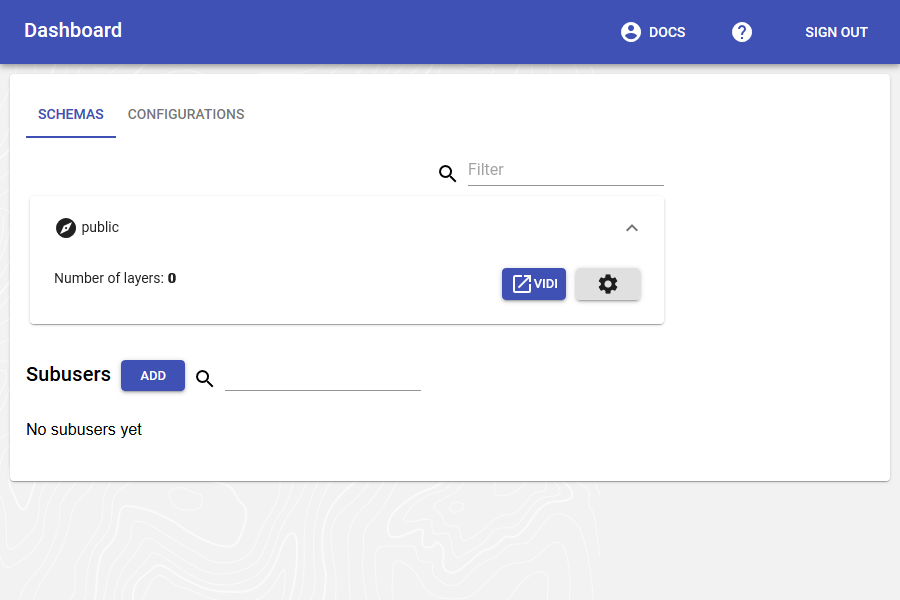
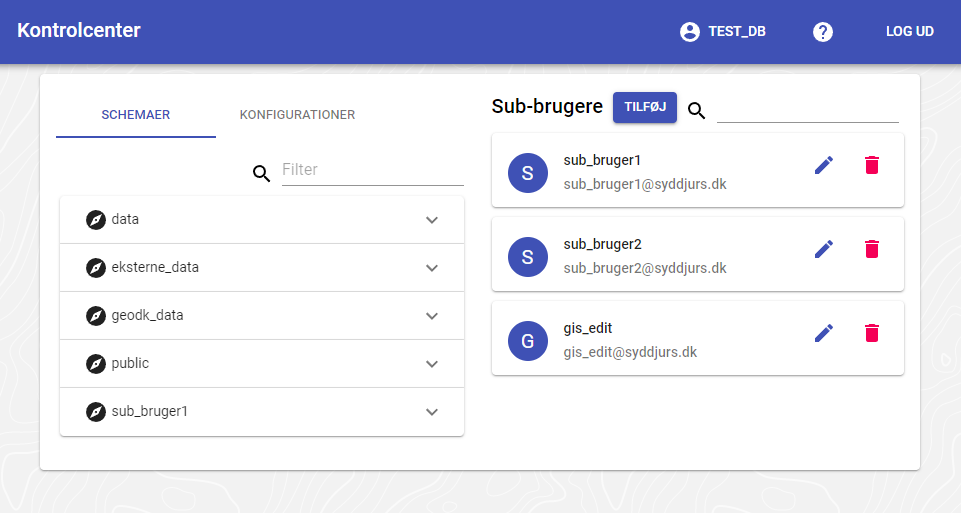
Tilrettet 1. halvdel af kom godt i gang/gettingstarted, og lavet nye screenshots.

diff --git a/docs/da/pages/gettingstarted/gettingstarted.rst b/docs/da/pages/gettingstarted/gettingstarted.rst
@@ -17,9 +17,9 @@ Kom godt i gang med GC2
 Hvad er GC2?
 ================================================================= 
 
-GC2 er en enterprise platform for håndtering af geospatial data, kort-visualisering og spatiale værktøjer. Bygget på de bedste opensource og standard baserede programmer.
+GeoCloud2 eller fremover GC2 er en enterprise platform for håndtering af geospatial data, kort-visualisering og spatiale værktøjer. Bygget på de bedste opensource og standard baserede programmer.
 
-GC2 gør det nemt at starte med PostGIS, MapServer, QGIS Server, MapCache, Elasticsearch, GDAL/OGR2OGR samt en simpel web-interface til administration af hele software-pakken.
+GC2 gør det nemt at starte med PostGIS, MapServer, QGIS Server, MapCache, Elasticsearch, GDAL/OGR2OGR. Brugerfladen i GC2, er et simpelt web-interface til administration af hele software-pakken.
 
 Målet med GC2 er at gøre det nemt for organisationer at bruge opensource værktøjer til at bygge en geospatial infrastruktur.
 
@@ -35,7 +35,7 @@ TBD
 Log ind
 -----------------------------------------------------------------
 
-Når man forbinder til GC2 bliver man mødt med log-in skærmen som det første. Her er det muligt at logge ind som database-bruger eller sub-bruger.
+Url'en til GC2 vælges når GC2 installeres. Når man forbinder til GC2 bliver man mødt med log-in skærmen som det første. Her er det muligt at logge ind som database-bruger eller sub-bruger.
 
 Først taster man brugernavn, derefter på ``Log ind``. Der bliver lavet et hurtigt tjek på om brugeren eksiterer. Hvis den gør, bliver det muligt at udfylde password. afslut med ``Log ind``.
 
@@ -53,7 +53,7 @@ Hvis det lykkedes at logge ind bliver man automatisk bragt videre til :ref:`dash
 
 .. _gettingstarted_register:
 
-Opret user
+Tilmeld/opret databasebruger
 -----------------------------------------------------------------
 
 .. note::
@@ -75,10 +75,14 @@ Når man er færdig, kan man bruge oplysningerne til at logge ind.
 
 .. _gettingstarted_dashboard:
 
-Dashboard
+Kontrolpanel/Dashboard
 =================================================================
 
-TBD
+Når der er logget ind i GC2, så vises kontrolpanelet/dashboardet. 
+
+Kontrolpanelet er stedet hvor man i venstre side kan se en oversigt over skemaer eller konfigurationer i databasen. I højre side vises en oversigt over Sub-brugere. Der kan også tilføjes Sub-brugere.
+
+I den blå topbar er der et spørgsmålstegn, som giver adgang til dokumentationen, og der kan skiftes password for den bruger der er logget ind med ved at klikke på brugernavnet.
 
 .. figure:: ../../../_media/gettingstarted-dashboard.png
     :width: 400px
@@ -91,18 +95,25 @@ TBD
 Skemaer
 -----------------------------------------------------------------
 
-Hvert skema under databasebrugeren bliver vist. Det er også muligt at bruge filter-feltet til at Skemaet ``public`` bliver oprettet sammen med databasebrugeren.
+Hvert skema under databasebrugeren bliver vist. Der er et filter-felt, som kan bruges til at filtrere i listen.
 
-For hvert skema er det muligt at gøre følgende:
+Skemaet ``public`` bliver som standard oprettet sammen med databasebrugeren, og bør nomalt ikke bruges til noget.
 
-* Gå direkte til vidi
+Hvis der klikkes på et skema foldes det ud, og det er muligt at gøre følgende:
+
+* Åbne Vidi med lagene der er opsat i skemaet.
 * Gå til administrationsmodulet
 
 
 Konfigurationer
 -----------------------------------------------------------------
 
-TBD
+Konfigurationer er json filer, som gemmes i databasen. Konfigurationerne bruges til at styre opsætningen af Vidi. Dvs, det kan styres hvilke lag der vises, hvilke extensions og hvilke baggrundskort der er tilgængelige. 
+
+Konfigurationerne oprettes her, og skal have et navn, der kan suppleres med en beskrivelse.
+
+For en grundig gennemgang af mulighederne i konfigurationerne, så læs afsnittet i Vidi dokumentationen `Vidi kørselskonfiguration <https://vidi.readthedocs.io/da/latest/pages/standard/91_run_configuration.html>`_
+
 
 Profil
 -----------------------------------------------------------------
